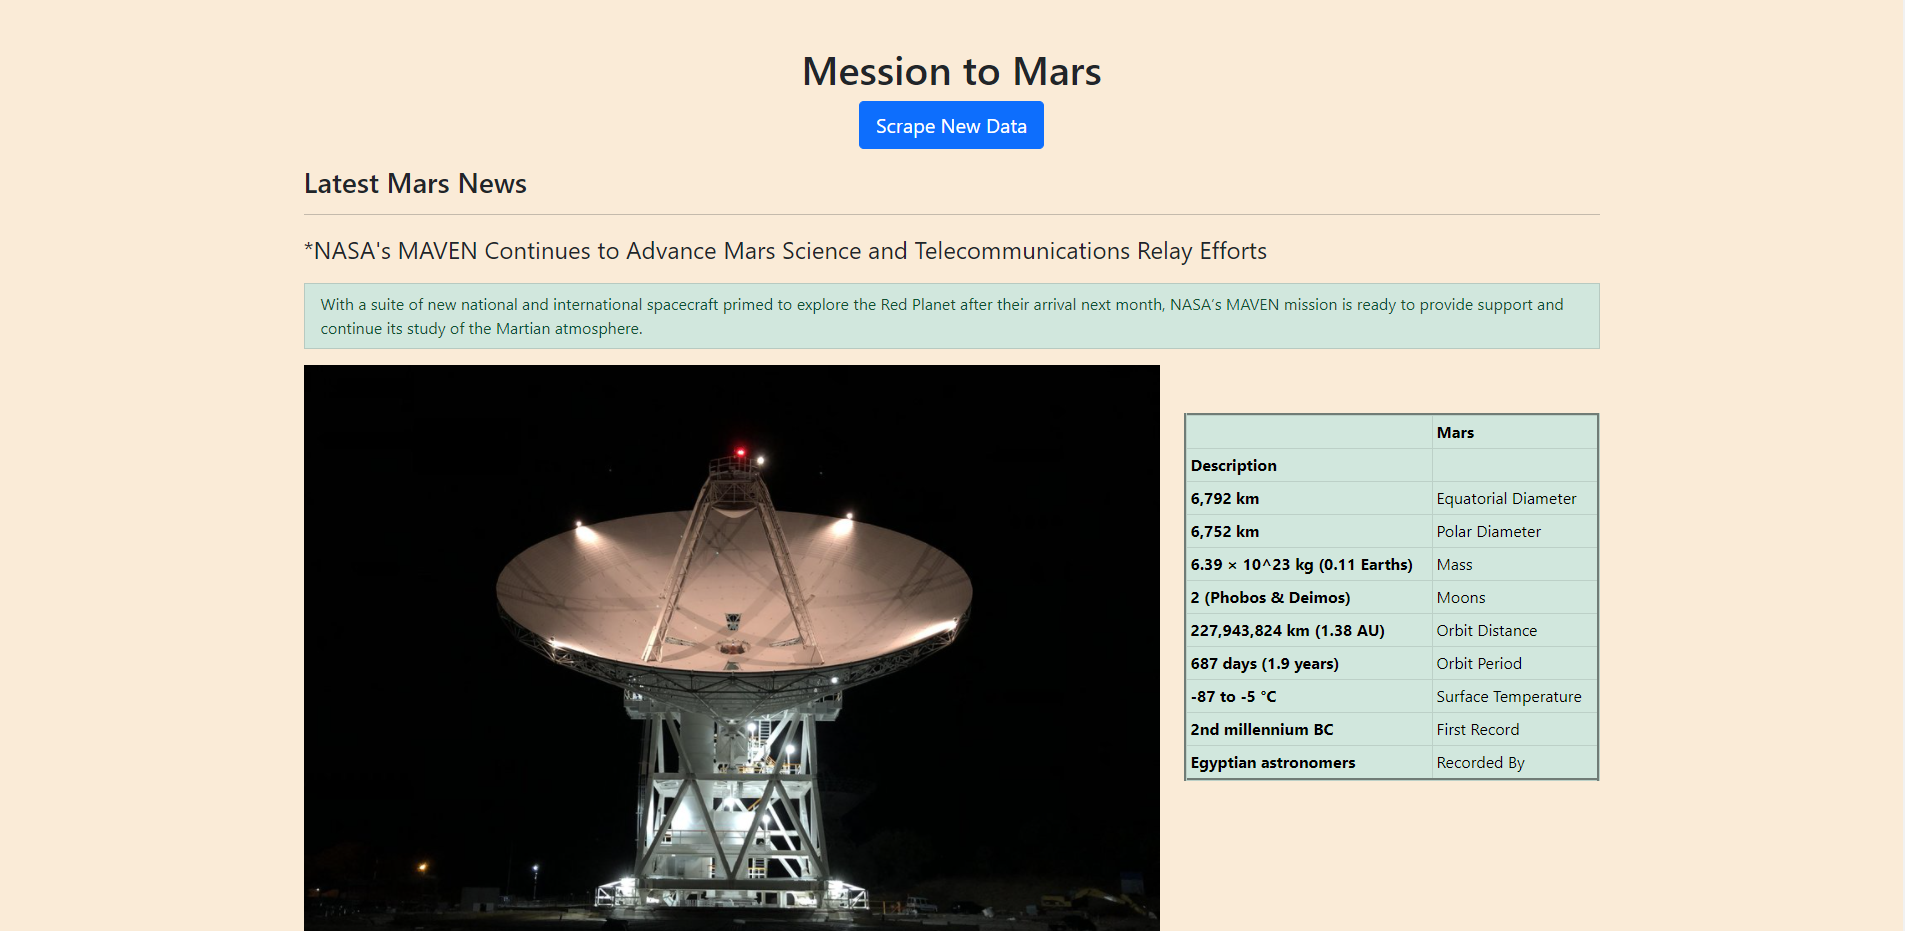
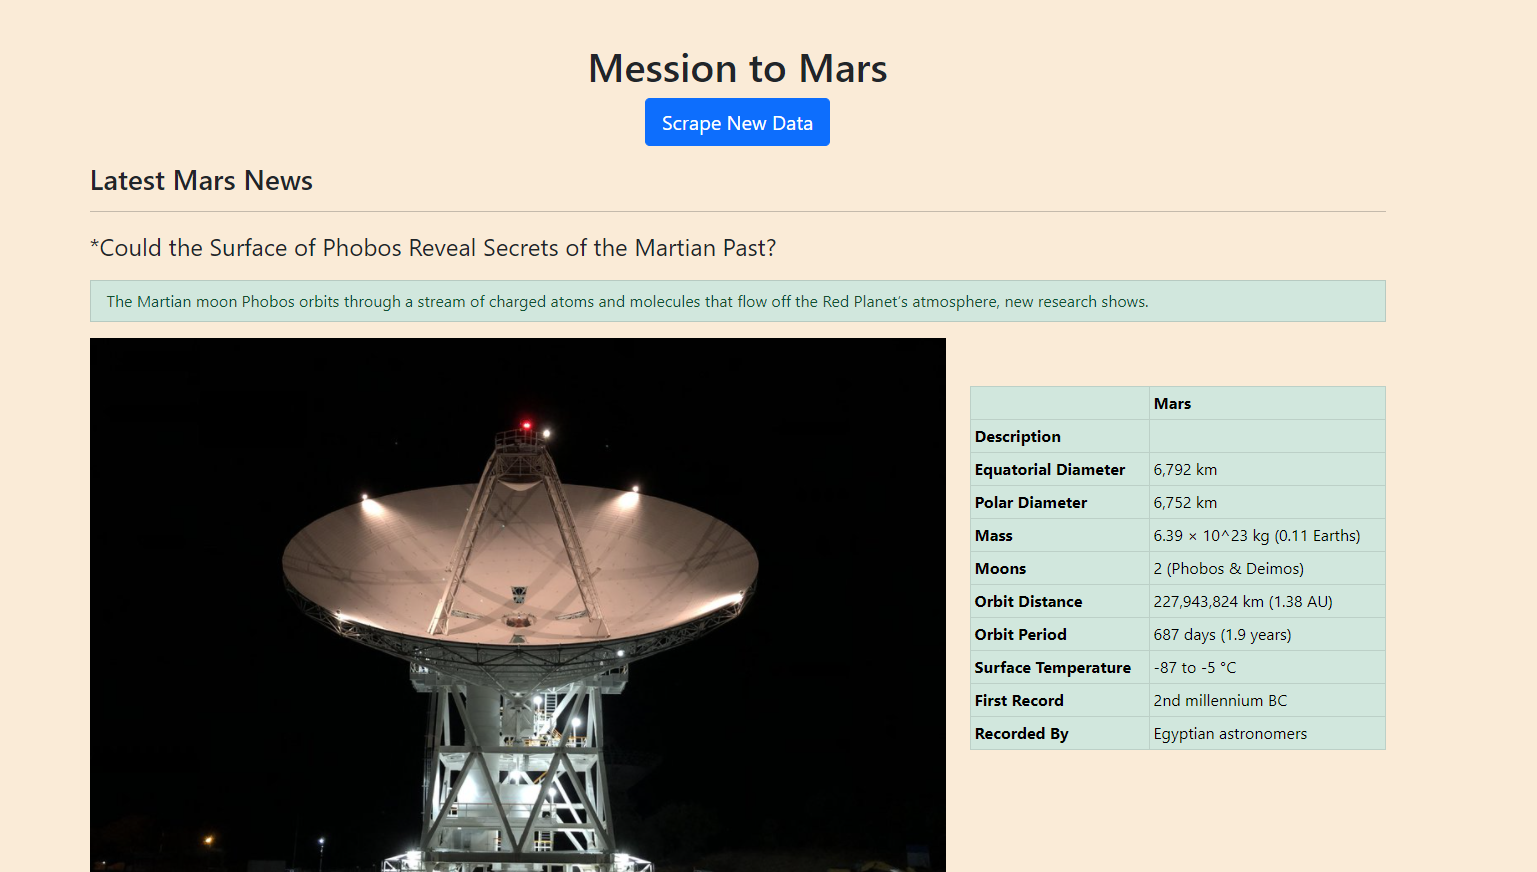
for loop

diff --git a/mission_to_mars/templates/index.html b/mission_to_mars/templates/index.html
@@ -38,48 +38,45 @@
             <div class="col-lg-4 col-sm-4">
                 <br>
                 <br>
-                <div class="table bord table-success table-bordered table-sm"> {{data_holder.mars_table|safe}} </div>
+                <div>
+                    <table  class="table bord table-success table-bordered table-sm">
+                        <thead>
+                            <tr style="text-align: left;">
+                                <th></th>
+                                <th>Mars</th>
+                            </tr>
+                            <tr>
+                                <th>Description</th>
+                                <th></th>
+                            </tr>
+                        </thead>
+                        <tbody>
+                            {% for row in data_holder.mars_table %}
+                            <tr>
+                                <th>{{ row[0] }}</th>
+                                <td>{{ row[1] }}</td>
+                            </tr>
+                            {% endfor %}
+                        </tbody>
+                    </table>
+                </div>
             </div>
         </div>
         <h3 style="text-align: center; padding-top:3%; padding-bottom: 3%;">
             Mars Hemispheres
         </h3>
         <div class="row">
+            {% for hemisphere in data_holder.hemisphere_image_urls %}
             <div class="col-lg-6 col-sm-6">
                 <p class="fw-bolder fs-4 p-2 list-group-item-success">
-                    {{ data_holder.hemisphere_image_urls[0].title }}
+                    {{ hemisphere.title }}
                 </p>
-                <img src="{{ data_holder.hemisphere_image_urls[0].img_url }}" class="img-fluid" alt="featuered img">
+                <img src="{{ hemisphere.img_url }}" class="img-fluid" alt="featuered img">
 
             </div>
-            <div class="col-lg-6 col-sm-6">
-                <p class="fw-bolder fs-4 p-2 list-group-item-success">
-                    {{ data_holder.hemisphere_image_urls[1].title }}
-                </p>
-                <img src="{{ data_holder.hemisphere_image_urls[1].img_url }}" class="img-fluid" alt="featuered img">
-
-            </div>
+            {% endfor %}
 
         </div>
-        <div class="row">
-            <div class="col-lg-6 col-sm-6">
-                <p class="fw-bolder fs-4 p-2 list-group-item-success">
-                    {{ data_holder.hemisphere_image_urls[2].title }}
-                </p>
-                <img src="{{ data_holder.hemisphere_image_urls[2].img_url }}" class="img-fluid" alt="featuered img">
-
-            </div>
-            <div class="col-lg-6 col-sm-6">
-                <p class="fw-bolder fs-4 p-2 list-group-item-success">
-                    {{ data_holder.hemisphere_image_urls[3].title }}
-                </p>
-                <img src="{{ data_holder.hemisphere_image_urls[3].img_url }}" class="img-fluid" alt="featuered img">
-
-            </div>
-
-        </div>
-
-
 
     </div>
 </body>

diff --git a/mission_to_mars/mars_html.html b/mission_to_mars/mars_html.html
@@ -11,40 +11,40 @@
   </thead>
   <tbody>
     <tr>
-      <th>6,792 km</th>
-      <td>Equatorial Diameter</td>
+      <th>Equatorial Diameter</th>
+      <td>6,792 km</td>
     </tr>
     <tr>
-      <th>6,752 km</th>
-      <td>Polar Diameter</td>
+      <th>Polar Diameter</th>
+      <td>6,752 km</td>
     </tr>
     <tr>
-      <th>6.39 × 10^23 kg (0.11 Earths)</th>
-      <td>Mass</td>
+      <th>Mass</th>
+      <td>6.39 × 10^23 kg (0.11 Earths)</td>
     </tr>
     <tr>
-      <th>2 (Phobos &amp; Deimos)</th>
-      <td>Moons</td>
+      <th>Moons</th>
+      <td>2 (Phobos &amp; Deimos)</td>
     </tr>
     <tr>
-      <th>227,943,824 km (1.38 AU)</th>
-      <td>Orbit Distance</td>
+      <th>Orbit Distance</th>
+      <td>227,943,824 km (1.38 AU)</td>
     </tr>
     <tr>
-      <th>687 days (1.9 years)</th>
-      <td>Orbit Period</td>
+      <th>Orbit Period</th>
+      <td>687 days (1.9 years)</td>
     </tr>
     <tr>
-      <th>-87 to -5 °C</th>
-      <td>Surface Temperature</td>
+      <th>Surface Temperature</th>
+      <td>-87 to -5 °C</td>
     </tr>
     <tr>
-      <th>2nd millennium BC</th>
-      <td>First Record</td>
+      <th>First Record</th>
+      <td>2nd millennium BC</td>
     </tr>
     <tr>
-      <th>Egyptian astronomers</th>
-      <td>Recorded By</td>
+      <th>Recorded By</th>
+      <td>Egyptian astronomers</td>
     </tr>
   </tbody>
 </table>

diff --git a/mission_to_mars/scrape_mars.py b/mission_to_mars/scrape_mars.py
@@ -48,17 +48,20 @@ def scrape():
     print(len(tables))
     mars_fact_df=tables[0]
     #rename the columns
-    mars_fact_df.columns=["Mars","Description"]
+    mars_fact_df.columns=["Description","Mars"]
     #Remove colon from the table
-    mars_fact_df["Mars"] = mars_fact_df["Mars"].replace({':':''}, regex=True)
+    mars_fact_df["Description"] = mars_fact_df["Description"].replace({':':''}, regex=True)
     
     mars_fact_df = mars_fact_df.set_index("Description")
     
     #convert table to HTML code
-    data_holder["mars_table"]= mars_fact_df.to_html()  
+    
+    data_holder["mars_table"]= []
+    for i, row in mars_fact_df.iterrows():
+        data_holder['mars_table'].append((i, row['Mars']))
     #replace new line with white space
-    html_table=data_holder["mars_table"].replace('\n', '')
-    print(html_table)
+    # html_table=data_holder["mars_table"].replace('\n', '')
+    # print(html_table)
     url4="https://astrogeology.usgs.gov/search/results?q=hemisphere+enhanced&k1=target&v1=Mars"
     browser.visit(url4)
     html=browser.html
@@ -86,7 +89,6 @@ def scrape():
         # Return back after first click because it will be in the second page
         browser.back()
     return data_holder
-scrape()
 
 
 

diff --git a/mission_to_mars/app.py b/mission_to_mars/app.py
@@ -17,13 +17,12 @@ def index():
 
 # `/scrape` route to store the Python dictionary as a document in a mongo database collection
 @app.route("/scrape")
-def scraper():
-   
-   #return func equal python file .function name
+def scraper():   
+    #return func equal python file .function name
     data_holder=scrape_mars.scrape()
     #update Mongo database with new data
     mongo.db.collection.update({},data_holder,upsert=True)
     return redirect("/")
 
-if __name__=="__main__":
-    app.run(debug=True)
+
+app.run(debug=True)
